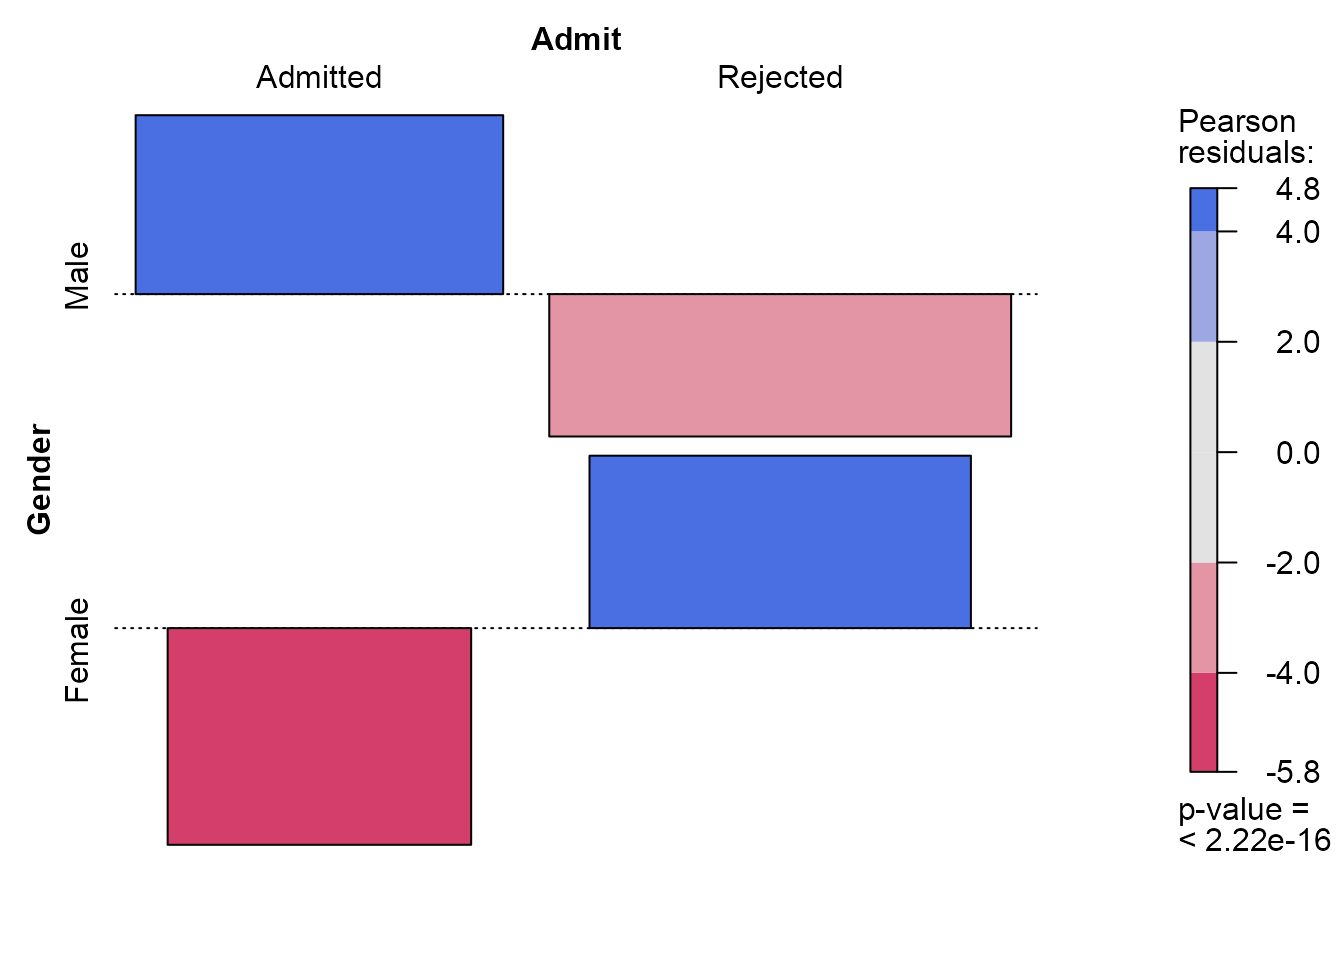
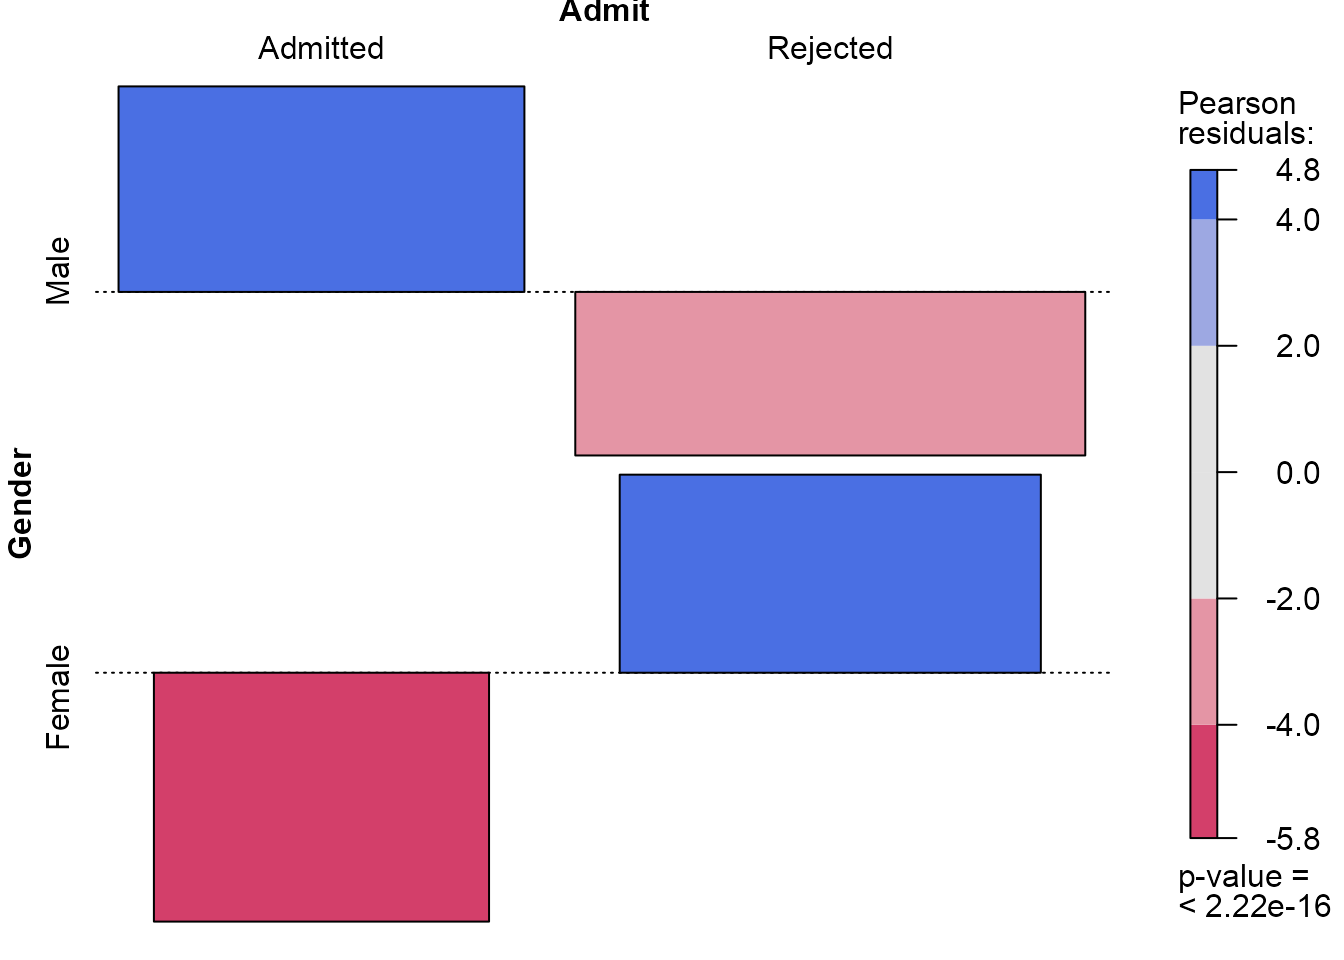
Margins!

diff --git a/docs/articles/stat0002-ch8-contingency-tables-vignette.html b/docs/articles/stat0002-ch8-contingency-tables-vignette.html
@@ -466,8 +466,8 @@ package produces an <strong>association plot</strong> that summarises
 how the (Pearson) residuals vary between the combinations of the
 categories. The vertical extent of a rectangle is proportional to the
 corresponding Pearson residual and the width is proportional to the
-square root of the expected frequency. Therefore, the area of a box is
-proportional to the corresponding (raw) residual, that is, this
+square root of the estimated expected frequency. Therefore, the area of
+a box is proportional to the corresponding (raw) residual, that is, this
 difference between the observed and estimated expected frequency. Look
 at the definitions of these residuals in <a href="https://paulnorthrop.github.io/stat0002book/contingency.html#indep" class="external-link">Section
 8.1.1</a> to see how this works.</p>
@@ -555,15 +555,17 @@ based on the values of residuals.</p>
 <span id="cb13-17"><a href="#cb13-17" aria-hidden="true" tabindex="-1"></a>  Male    <span class="fl">9.602358</span> <span class="sc">-</span><span class="fl">9.602358</span></span>
 <span id="cb13-18"><a href="#cb13-18" aria-hidden="true" tabindex="-1"></a>  Female <span class="sc">-</span><span class="fl">9.602358</span>  <span class="fl">9.602358</span></span>
 <span id="cb13-19"><a href="#cb13-19" aria-hidden="true" tabindex="-1"></a><span class="sc">&gt;</span> <span class="co"># Association plot of residuals with Pearson residual shading</span></span>
-<span id="cb13-20"><a href="#cb13-20" aria-hidden="true" tabindex="-1"></a><span class="er">&gt;</span> <span class="fu">assoc</span>(ga, <span class="at">shade =</span> <span class="cn">TRUE</span>)</span></code></pre></div>
+<span id="cb13-20"><a href="#cb13-20" aria-hidden="true" tabindex="-1"></a><span class="er">&gt;</span> <span class="fu">assoc</span>(ga, <span class="at">shade =</span> <span class="cn">TRUE</span>, <span class="at">margins =</span> <span class="fu">c</span>(<span class="fl">2.25</span>, <span class="dv">1</span>, <span class="dv">1</span>, <span class="fl">2.5</span>))</span></code></pre></div>
 <p><img src="stat0002-ch8-contingency-tables-vignette_files/figure-html/unnamed-chunk-13-1.png" width="672" style="display: block; margin: auto;"></p>
 <div class="sourceCode" id="cb14"><pre class="sourceCode r"><code class="sourceCode r"><span id="cb14-1"><a href="#cb14-1" aria-hidden="true" tabindex="-1"></a><span class="sc">&gt;</span> <span class="co"># Association plot of residuals with standardised Pearson residual shading</span></span>
 <span id="cb14-2"><a href="#cb14-2" aria-hidden="true" tabindex="-1"></a><span class="er">&gt;</span> <span class="fu">strucplot</span>(ga, <span class="at">shade =</span> <span class="cn">TRUE</span>, <span class="at">residuals =</span> x2test<span class="sc">$</span>stdres, </span>
-<span id="cb14-3"><a href="#cb14-3" aria-hidden="true" tabindex="-1"></a><span class="sc">+</span>           <span class="at">residuals_type =</span> <span class="st">"Standardised Pearson"</span>, <span class="at">core =</span> struc_assoc)</span></code></pre></div>
+<span id="cb14-3"><a href="#cb14-3" aria-hidden="true" tabindex="-1"></a><span class="sc">+</span>           <span class="at">margins =</span> <span class="fu">c</span>(<span class="fl">2.25</span>, <span class="dv">1</span>, <span class="dv">1</span>, <span class="fl">2.5</span>),</span>
+<span id="cb14-4"><a href="#cb14-4" aria-hidden="true" tabindex="-1"></a><span class="sc">+</span>           <span class="at">residuals_type =</span> <span class="st">"Standardised</span><span class="sc">\n</span><span class="st">Pearson</span><span class="sc">\n</span><span class="st">residuals"</span>, <span class="at">core =</span> struc_assoc,</span>
+<span id="cb14-5"><a href="#cb14-5" aria-hidden="true" tabindex="-1"></a><span class="sc">+</span>           <span class="at">keep_aspect_ratio =</span> <span class="cn">FALSE</span>, <span class="at">legend_width =</span> <span class="dv">6</span>)</span></code></pre></div>
 <p><img src="stat0002-ch8-contingency-tables-vignette_files/figure-html/unnamed-chunk-13-2.png" width="672" style="display: block; margin: auto;"></p>
 <div class="sourceCode" id="cb15"><pre class="sourceCode r"><code class="sourceCode r"><span id="cb15-1"><a href="#cb15-1" aria-hidden="true" tabindex="-1"></a><span class="sc">&gt;</span> <span class="co"># Mosaic plot with standardised Pearson residual shading</span></span>
 <span id="cb15-2"><a href="#cb15-2" aria-hidden="true" tabindex="-1"></a><span class="er">&gt;</span> <span class="fu">mosaic</span>(ga, <span class="at">shade =</span> <span class="cn">TRUE</span>, <span class="at">residuals =</span> x2test<span class="sc">$</span>stdres, </span>
-<span id="cb15-3"><a href="#cb15-3" aria-hidden="true" tabindex="-1"></a><span class="sc">+</span>        <span class="at">residuals_type =</span> <span class="st">"Standardised Pearson"</span>)</span></code></pre></div>
+<span id="cb15-3"><a href="#cb15-3" aria-hidden="true" tabindex="-1"></a><span class="sc">+</span>        <span class="at">residuals_type =</span> <span class="st">"Standardised Pearson"</span>, <span class="at">margins =</span> <span class="fu">c</span>(<span class="dv">0</span>, <span class="dv">0</span>, <span class="dv">0</span>, <span class="dv">0</span>))</span></code></pre></div>
 <p><img src="stat0002-ch8-contingency-tables-vignette_files/figure-html/unnamed-chunk-13-3.png" width="672" style="display: block; margin: auto;"></p>
 <p>These plots indicate that the (effectively one) standardised Pearson
 residual has a magnitude (<span class="math inline">\(9.6\)</span>) that
@@ -633,7 +635,7 @@ standardised Pearson residuals.</p>
 </h4>
 <div class="sourceCode" id="cb19"><pre class="sourceCode r"><code class="sourceCode r"><span id="cb19-1"><a href="#cb19-1" aria-hidden="true" tabindex="-1"></a><span class="sc">&gt;</span> gd <span class="ot">&lt;-</span> <span class="fu">xtabs</span>(Freq <span class="sc">~</span> Gender <span class="sc">+</span> Dept, berkdf)</span>
 <span id="cb19-2"><a href="#cb19-2" aria-hidden="true" tabindex="-1"></a><span class="sc">&gt;</span> x2test <span class="ot">&lt;-</span> <span class="fu">chisq.test</span>(gd, <span class="at">correct =</span> <span class="cn">FALSE</span>)</span>
-<span id="cb19-3"><a href="#cb19-3" aria-hidden="true" tabindex="-1"></a><span class="sc">&gt;</span> <span class="fu">assoc2</span>(gd, <span class="at">residuals =</span> x2test<span class="sc">$</span>stdres)</span></code></pre></div>
+<span id="cb19-3"><a href="#cb19-3" aria-hidden="true" tabindex="-1"></a><span class="sc">&gt;</span> <span class="fu">assoc2</span>(gd, <span class="at">residuals =</span> x2test<span class="sc">$</span>stdres, <span class="at">margins =</span> <span class="fu">c</span>(<span class="dv">0</span>, <span class="dv">0</span>, <span class="dv">0</span>, <span class="dv">0</span>))</span></code></pre></div>
 <p><img src="stat0002-ch8-contingency-tables-vignette_files/figure-html/unnamed-chunk-17-1.png" width="672" style="display: block; margin: auto;"></p>
 <p>There are some strong differences in the preferences of females and
 males concerning the departments to which they apply. Males prefer
@@ -645,7 +647,7 @@ departments C and E.</p>
 </h4>
 <div class="sourceCode" id="cb20"><pre class="sourceCode r"><code class="sourceCode r"><span id="cb20-1"><a href="#cb20-1" aria-hidden="true" tabindex="-1"></a><span class="sc">&gt;</span> ad <span class="ot">&lt;-</span> <span class="fu">xtabs</span>(Freq <span class="sc">~</span> Admit <span class="sc">+</span> Dept, berkdf)</span>
 <span id="cb20-2"><a href="#cb20-2" aria-hidden="true" tabindex="-1"></a><span class="sc">&gt;</span> x2test <span class="ot">&lt;-</span> <span class="fu">chisq.test</span>(ad, <span class="at">correct =</span> <span class="cn">FALSE</span>)</span>
-<span id="cb20-3"><a href="#cb20-3" aria-hidden="true" tabindex="-1"></a><span class="sc">&gt;</span> <span class="fu">assoc2</span>(ad, <span class="at">residuals =</span> x2test<span class="sc">$</span>stdres)</span></code></pre></div>
+<span id="cb20-3"><a href="#cb20-3" aria-hidden="true" tabindex="-1"></a><span class="sc">&gt;</span> <span class="fu">assoc2</span>(ad, <span class="at">residuals =</span> x2test<span class="sc">$</span>stdres, <span class="at">margins =</span> <span class="fu">c</span>(<span class="dv">0</span>, <span class="dv">0</span>, <span class="dv">0</span>, <span class="dv">0</span>))</span></code></pre></div>
 <p><img src="stat0002-ch8-contingency-tables-vignette_files/figure-html/unnamed-chunk-18-1.png" width="672" style="display: block; margin: auto;"></p>
 <p>This plot suggests that the probability of admittance is much greater
 in departments A and B, which are the departments to which males like to
